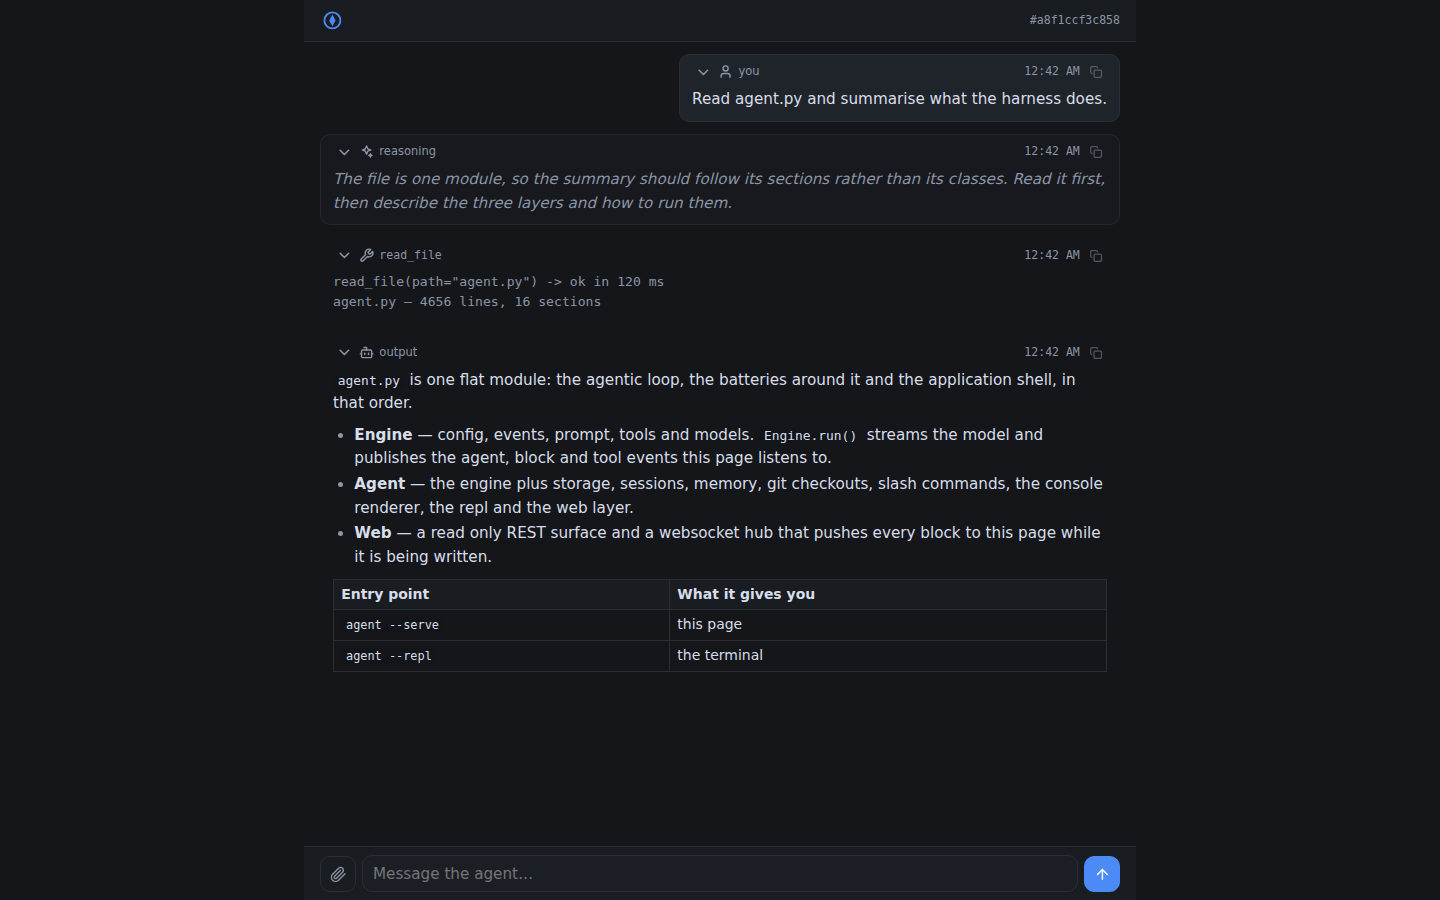
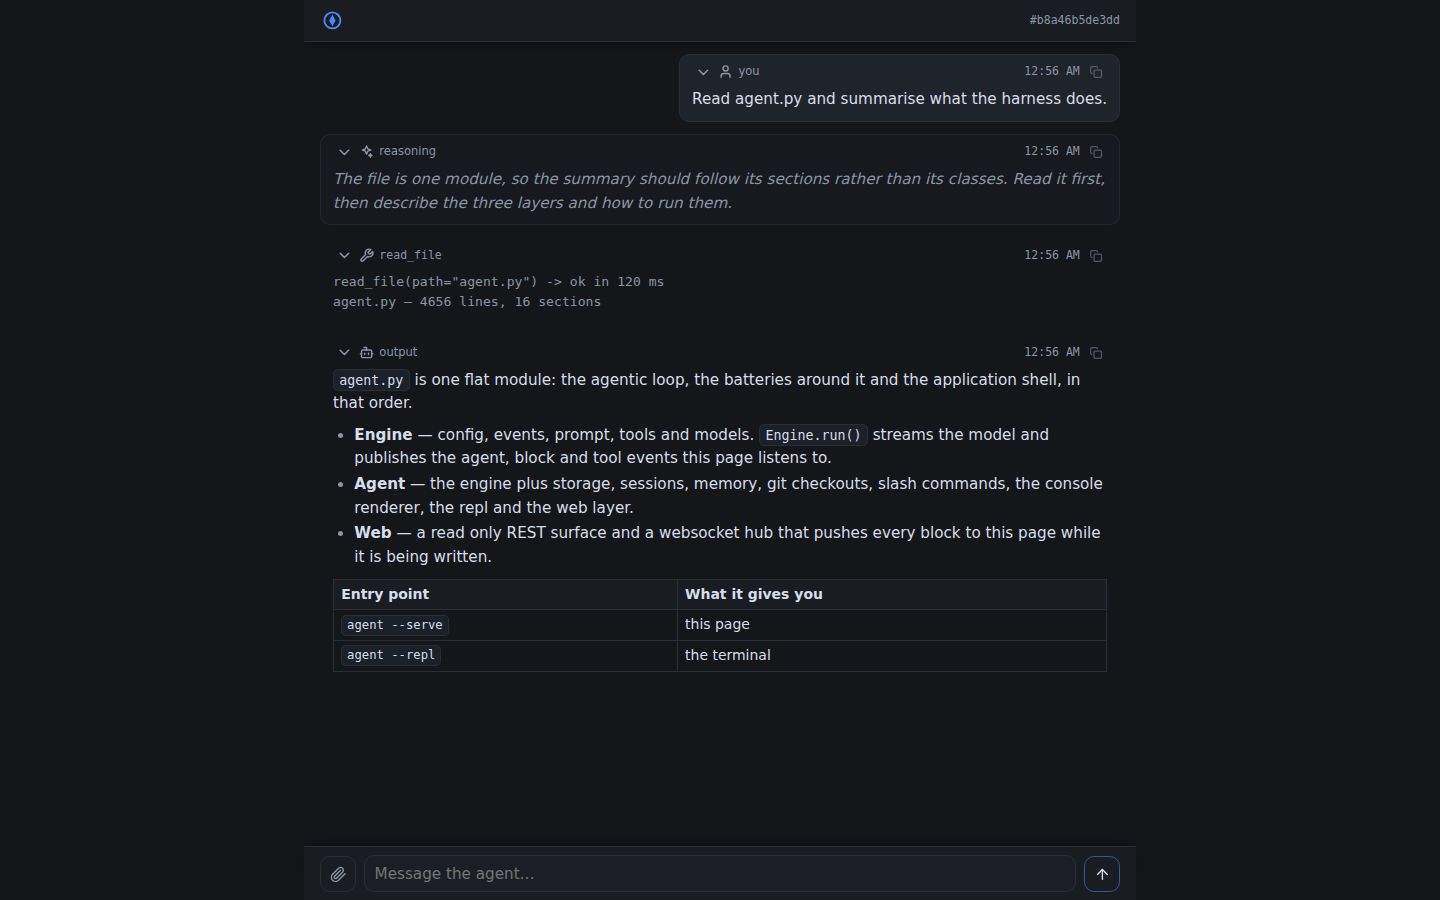
Settle the chrome: neutral composer, lifted bars, code as a surface
- Code is a surface rather than a hole. `--code-bg` sat within two points
  of `--bg` in the dark palette, so a fence read as a gap in the text;
  both palettes now put a clear step between them and a hairline border
  draws the edge. A theme is free to point `textCodeBlock.background`
  back at the editor background, so a candidate equal to the page
  background is skipped and the stylesheet keeps its own.
- An inline span is centred on the line it interrupts instead of hung
  off the baseline: a mono face carries more descent than the prose
  around it, which is what drags an unaligned chip low. Measured at
  +1.5px off centre before, +0.7px after.
- Submit wears the same neutral outline as the rest of the composer. A
  filled accent button was the brightest thing on the page and it sat
  next to the one region the reader is actually reading; only the stop
  icon carries a colour now.
- Both bars are stacked above the discussion and cast a short shadow
  onto it, so a block scrolling under one reads as passing behind it.
- The box takes every pixel the buttons do not, which puts the
  attachment button against the left edge and send or stop against the
  right.

Claude-Session: https://claude.ai/code/session_01BmqfykX7Bs4omYoqRfD7Mi

diff --git a/agent_ui.css b/agent_ui.css
@@ -19,12 +19,13 @@
   --input-bg: #1b1f25;
   --input-fg: #e6ebf2;
   --input-border: #2a2f37;
-  --code-bg: #12151a;
+  --code-bg: #1c2028;
   --link: #6cb6ff;
   --error: #f2686c;
   --badge-bg: #2a2f37;
   --badge-fg: #d8dee9;
   --scroll: #333a44;
+  --shadow: rgba(0, 0, 0, 0.45);
 
   --gap: 0.625rem;
   --radius: 0.625rem;
@@ -53,12 +54,13 @@
   --input-bg: #ffffff;
   --input-fg: #24292f;
   --input-border: #d5d9de;
-  --code-bg: #f2f3f5;
+  --code-bg: #f1f3f6;
   --link: #0a58ca;
   --error: #c4373b;
   --badge-bg: #e3e6ea;
   --badge-fg: #24292f;
   --scroll: #c2c7ce;
+  --shadow: rgba(16, 24, 40, 0.14);
 }
 
 * {
@@ -107,13 +109,19 @@ body {
 
 /* ---------------------------------------------------------------- header */
 
+/* Both bars sit above the discussion and cast a short shadow onto it, so a
+   block scrolling under one reads as passing behind it rather than colliding
+   with it. They have to be stacked to paint over a later sibling. */
 .bar {
+  position: relative;
+  z-index: 1;
   display: flex;
   align-items: center;
   gap: var(--gap);
   padding: 0.5rem 0.75rem;
   border-bottom: 1px solid var(--border);
   background: var(--bg-soft);
+  box-shadow: 0 6px 14px -8px var(--shadow);
 }
 
 /* The mark is the title and the status light at once: connection and activity
@@ -515,29 +523,45 @@ body {
   border-top: 1px solid var(--border);
 }
 
+/* A code surface is a shade apart from the page it sits on, in both theme
+   types, so a fence reads as a panel rather than as a gap in the text. */
 .block-body pre {
-  margin: 0.6em 0;
+  margin: 0.7em 0;
   background: var(--code-bg);
   border: 1px solid var(--border);
   border-radius: var(--radius);
-  padding: 0.6rem 0.7rem;
+  padding: 0.65rem 0.75rem;
   overflow-x: auto;
+  scrollbar-color: var(--scroll) transparent;
 }
 
 .block-body code {
-  font: 0.85em var(--mono);
+  font-family: var(--mono);
+  font-size: 0.875em;
 }
 
 .block-body pre code {
   display: block;
+  padding: 0;
+  border: 0;
+  background: none;
   white-space: pre;
-  line-height: 1.5;
+  line-height: 1.55;
+  tab-size: 4;
 }
 
+/* An inline span is a chip on a line of prose, so it is centered on that line
+   rather than hung off the baseline: a mono face carries more descent than the
+   text around it, which is what drags an unaligned chip low. The padding is
+   symmetric, the line box is the prose's own, and the half em of leading the
+   chip would otherwise add is taken back. */
 .block-body :not(pre) > code {
+  padding: 0.2em 0.4em;
+  border: 1px solid var(--border);
+  border-radius: 0.4em;
   background: var(--code-bg);
-  border-radius: 0.3rem;
-  padding: 0.05rem 0.3rem;
+  line-height: 1;
+  vertical-align: middle;
 }
 
 .block-body a {
@@ -598,9 +622,12 @@ body {
 /* -------------------------------------------------------------- composer */
 
 .composer {
+  position: relative;
+  z-index: 1;
   border-top: 1px solid var(--border);
   background: var(--bg-soft);
   padding: 0.5rem 0.75rem calc(0.5rem + env(safe-area-inset-bottom));
+  box-shadow: 0 -6px 14px -8px var(--shadow);
 }
 
 .attachments {
@@ -665,17 +692,19 @@ body {
   white-space: nowrap;
 }
 
+/* The box takes every pixel the buttons do not, which puts the attachment
+   button against the left edge and send or stop against the right one. */
 .input-row {
   display: flex;
   align-items: flex-end;
-  justify-content: center;
-  gap: 0.4rem;
+  justify-content: space-between;
+  gap: 0.5rem;
   width: 100%;
   margin-inline: auto;
 }
 
 .input {
-  flex: 1;
+  flex: 1 1 auto;
   resize: none;
   max-height: var(--input-max);
   min-height: var(--control);
@@ -734,17 +763,9 @@ body {
   border-color: color-mix(in srgb, var(--focus) 45%, var(--input-border));
 }
 
-.button.accent {
-  background: var(--accent);
-  border-color: var(--accent);
-  color: var(--accent-fg);
-}
-
-.button.danger {
-  color: var(--error);
-  border-color: color-mix(in srgb, var(--error) 55%, var(--input-border));
-}
-
+/* Every button on the composer is the same neutral coat — an outline, no
+   fill — so nothing on the bar shouts over the discussion above it. Stop is
+   the one exception, and only in the color of its icon. */
 .button.quiet {
   background: none;
   color: var(--muted);
@@ -752,6 +773,16 @@ body {
 
 .button.quiet:hover {
   color: var(--fg);
+}
+
+.button.danger {
+  background: none;
+  color: var(--error);
+}
+
+.button.danger:hover {
+  color: var(--error);
+  border-color: color-mix(in srgb, var(--error) 55%, var(--input-border));
 }
 
 /* The size used inside a block head and on an attachment chip. */

diff --git a/agent_ui.js b/agent_ui.js
@@ -414,6 +414,11 @@
     "--scroll": ["scrollbarSlider.background"],
   };
 
+  /** Variables worth nothing unless they differ from the page background: a
+   *  code surface the color of the page is not a surface. Mirrors
+   *  THEME_DISTINCT in agent.py. */
+  const THEME_DISTINCT = ["--code-bg"];
+
   const Theme = {
     /** Normalise the theme kinds VS Code writes onto the ones the CSS knows. */
     type(raw) {
@@ -445,10 +450,17 @@
     /** Map a raw VS Code theme file onto CSS variables (client side loading). */
     fromVsCode(theme) {
       const colors = (theme && theme.colors) || {};
+      const pick = (keys, unlike) => {
+        const key = keys.find(
+          (candidate) => colors[candidate] && String(colors[candidate]) !== unlike,
+        );
+        return key ? String(colors[key]) : null;
+      };
+      const background = pick(THEME_KEYS["--bg"]);
       const vars = {};
       Object.entries(THEME_KEYS).forEach(([name, keys]) => {
-        const key = keys.find((candidate) => colors[candidate]);
-        if (key) vars[name] = String(colors[key]);
+        const value = pick(keys, THEME_DISTINCT.includes(name) ? background : null);
+        if (value !== null) vars[name] = value;
       });
       vars["--theme-type"] = this.type(theme && theme.type);
       return vars;

diff --git a/agent_ui.html b/agent_ui.html
@@ -49,7 +49,7 @@
             placeholder="Message the agent…"
             disabled
           ></textarea>
-          <button class="button accent" id="send" type="submit" title="Send" aria-label="Send" disabled>
+          <button class="button quiet" id="send" type="submit" title="Send" aria-label="Send" disabled>
             <svg class="icon" viewBox="0 0 24 24" aria-hidden="true" focusable="false">
               <path d="M12 19V5" />
               <path d="m5 12 7-7 7 7" />

diff --git a/agent.py b/agent.py
@@ -4241,6 +4241,12 @@ THEME_KEYS = {
     "--scroll": ("scrollbarSlider.background",),
 }
 
+#: Variables that are worthless unless they differ from the page background: a
+#: code surface the color of the page is not a surface. When every candidate a
+#: theme names is the background, the variable is left out and the stylesheet
+#: keeps its own, which is a shade apart by construction.
+THEME_DISTINCT = ("--code-bg",)
+
 #: The theme kinds VS Code writes, mapped onto the ones the stylesheet knows.
 THEME_TYPES = {
     "light": "light",
@@ -4272,12 +4278,20 @@ def load_vscode_theme(path: Path | str | None) -> dict[str, str]:
         return {}
     data = json.loads(Path(path).expanduser().read_text(encoding="utf-8"))
     colors = data.get("colors") or {}
+
+    def pick(keys: Iterable[str], unlike: str | None = None) -> str | None:
+        for key in keys:
+            value = colors.get(key)
+            if value and str(value) != unlike:
+                return str(value)
+        return None
+
+    background = pick(THEME_KEYS["--bg"])
     theme: dict[str, str] = {}
     for css, keys in THEME_KEYS.items():
-        for key in keys:
-            if colors.get(key):
-                theme[css] = str(colors[key])
-                break
+        value = pick(keys, background if css in THEME_DISTINCT else None)
+        if value is not None:
+            theme[css] = value
     theme["--theme-type"] = theme_type(data.get("type"))
     return theme
 

diff --git a/agent_test.py b/agent_test.py
@@ -2129,6 +2129,22 @@ class ThemeTest(unittest.TestCase):
         self.assertNotIn("--accent", theme)
         self.assertNotIn("--muted", theme)
 
+    def test_a_code_surface_the_color_of_the_page_is_skipped(self):
+        path = self.write_theme(
+            colors={
+                "editor.background": "#101010",
+                "textCodeBlock.background": "#101010",
+                "editorWidget.background": "#202020",
+            }
+        )
+        self.assertEqual(A.load_vscode_theme(path)["--code-bg"], "#202020")
+
+    def test_a_code_surface_with_no_distinct_candidate_is_left_out(self):
+        path = self.write_theme(
+            colors={"editor.background": "#101010", "textCodeBlock.background": "#101010"}
+        )
+        self.assertNotIn("--code-bg", A.load_vscode_theme(path))
+
     def test_theme_types_are_normalised(self):
         for raw, expected in (
             ("light", "light"),

diff --git a/GUIDE.md b/GUIDE.md
@@ -632,7 +632,11 @@ covers is left out entirely and the stylesheet keeps its own value.
 `theme_type()` folds the kinds VS Code writes (`light`, `hc`, `hcDark`,
 `hcLight`) onto the four the stylesheet knows, and the page carries the answer
 as `data-theme-type` on `<html>` — which is what swaps the default palette
-between dark and light.
+between dark and light. `THEME_DISTINCT` names the variables that are worthless
+unless they differ from the page background — `--code-bg` is the only one —
+so a theme that points `textCodeBlock.background` back at the editor background
+falls through to the next candidate, and to the stylesheet's own if none
+differs.
 
 ## 19. Web client
 
@@ -703,10 +707,23 @@ fallback palettes, one per theme type, because a VS Code theme names only part
 of the palette and the rest has to already match. Prompt blocks align right;
 tool and log blocks are monospaced and muted, a tool block keeps its whitespace
 and is labelled with the tool name (turning red when the call failed); a
-streaming block pulses. The composer centres its children, the box grows with
-the text it holds up to 14 rem and takes that height out of the discussion
-above it rather than covering it, and focus is a hairline of accent and a soft
-ring rather than a heavy halo.
+streaming block pulses.
+
+Code is a surface rather than a hole: a fence and an inline span both sit on
+`--code-bg`, a shade apart from the page in either theme type, inside a
+`--border` hairline. An inline span is centred on the line it interrupts
+(`vertical-align: middle`, its own line box collapsed to `1`), because a mono
+face carries more descent than the prose around it and hangs low when it is
+left on the baseline.
+
+Both bars are stacked above the discussion and cast a short shadow onto it, so
+a block scrolling under one passes behind it instead of colliding with it. On
+the composer the box takes every pixel the buttons do not, which puts the
+attachment button against the left edge and send or stop against the right;
+all three buttons wear the same neutral outline, and only the stop icon is
+coloured. The box grows with the text it holds up to 14 rem and takes that
+height out of the discussion above it rather than covering it, and focus is a
+hairline of accent and a soft ring rather than a heavy halo.
 
 ### Screenshots
 

diff --git a/CHANGES.md b/CHANGES.md
@@ -490,6 +490,22 @@ without losing what the model actually said. Clipboard writes fall back to a
 hidden selection where the async API is barred, which is every deployment not on
 `localhost` or TLS.
 
+**Nothing on the chrome competes with the discussion.** A filled accent button
+on the composer is the brightest thing on the page, and it sits next to the one
+region the reader is actually reading. Every composer button now wears the same
+neutral outline and only the stop icon carries a colour, the two bars cast a
+short shadow onto the discussion so a block scrolling under one reads as going
+behind it, and the box between the buttons takes all the width they leave.
+
+**Code has to be a surface, not a hole.** `--code-bg` was within two points of
+`--bg` in the dark palette, so a fence read as a gap in the text rather than as
+a panel. Both palettes now put a clear step between them, a hairline border
+draws the edge, and — because a theme is free to point `textCodeBlock.background`
+straight back at the editor background — a candidate equal to the page
+background is skipped rather than used. An inline span is centred on the line it
+interrupts instead of hung off the baseline: a mono face carries more descent
+than the prose around it, which is what drags an unaligned chip low.
+
 **Rendering is coalesced onto a frame.** Re-parsing the whole markdown of a
 block on every delta is quadratic and, at the rate a provider emits tokens,
 spends more time rendering than painting. `append` marks the body dirty and the
